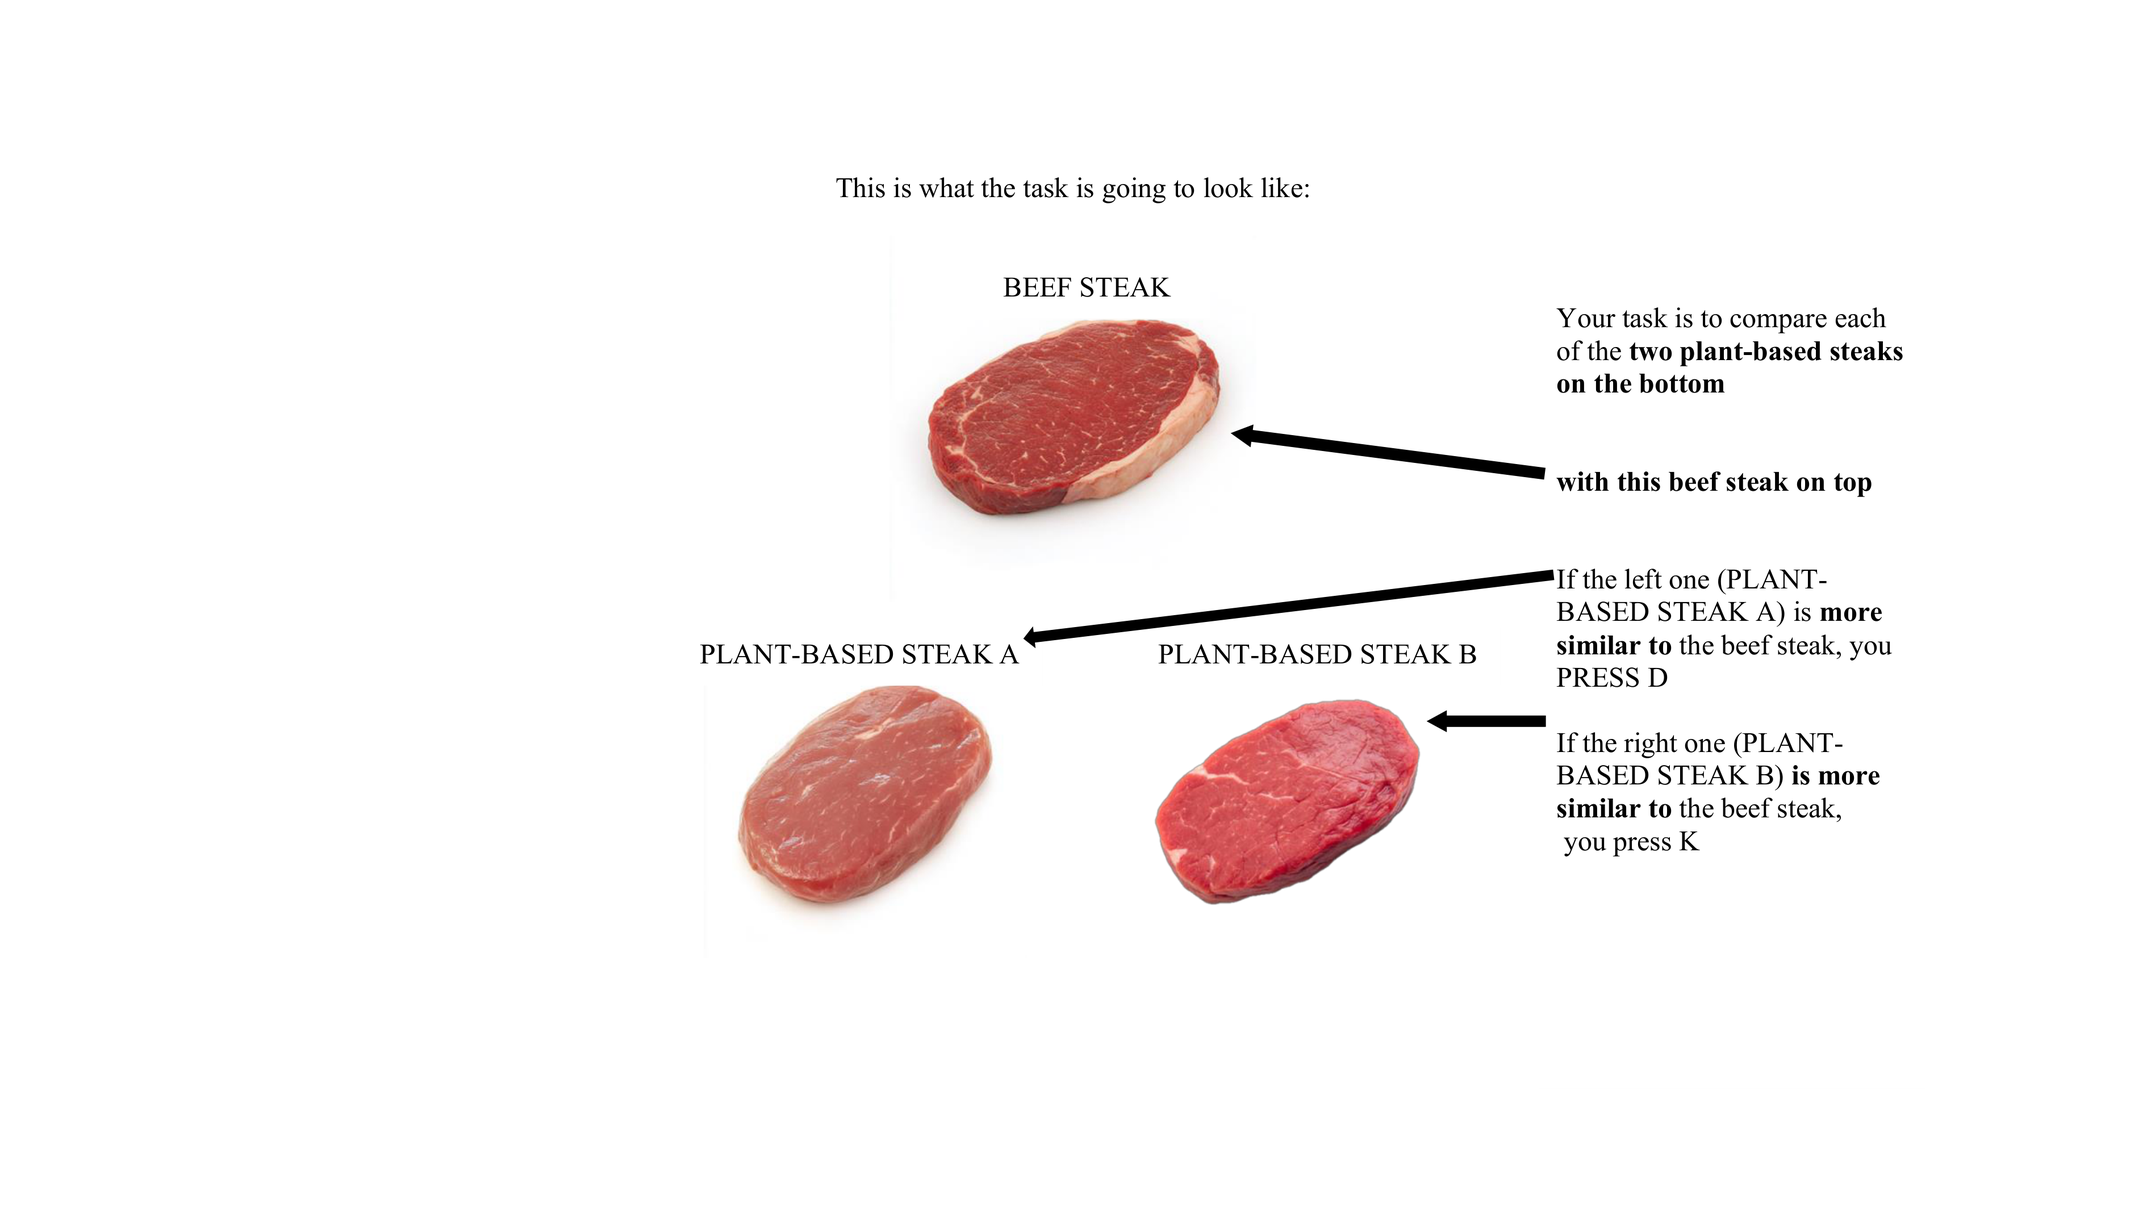
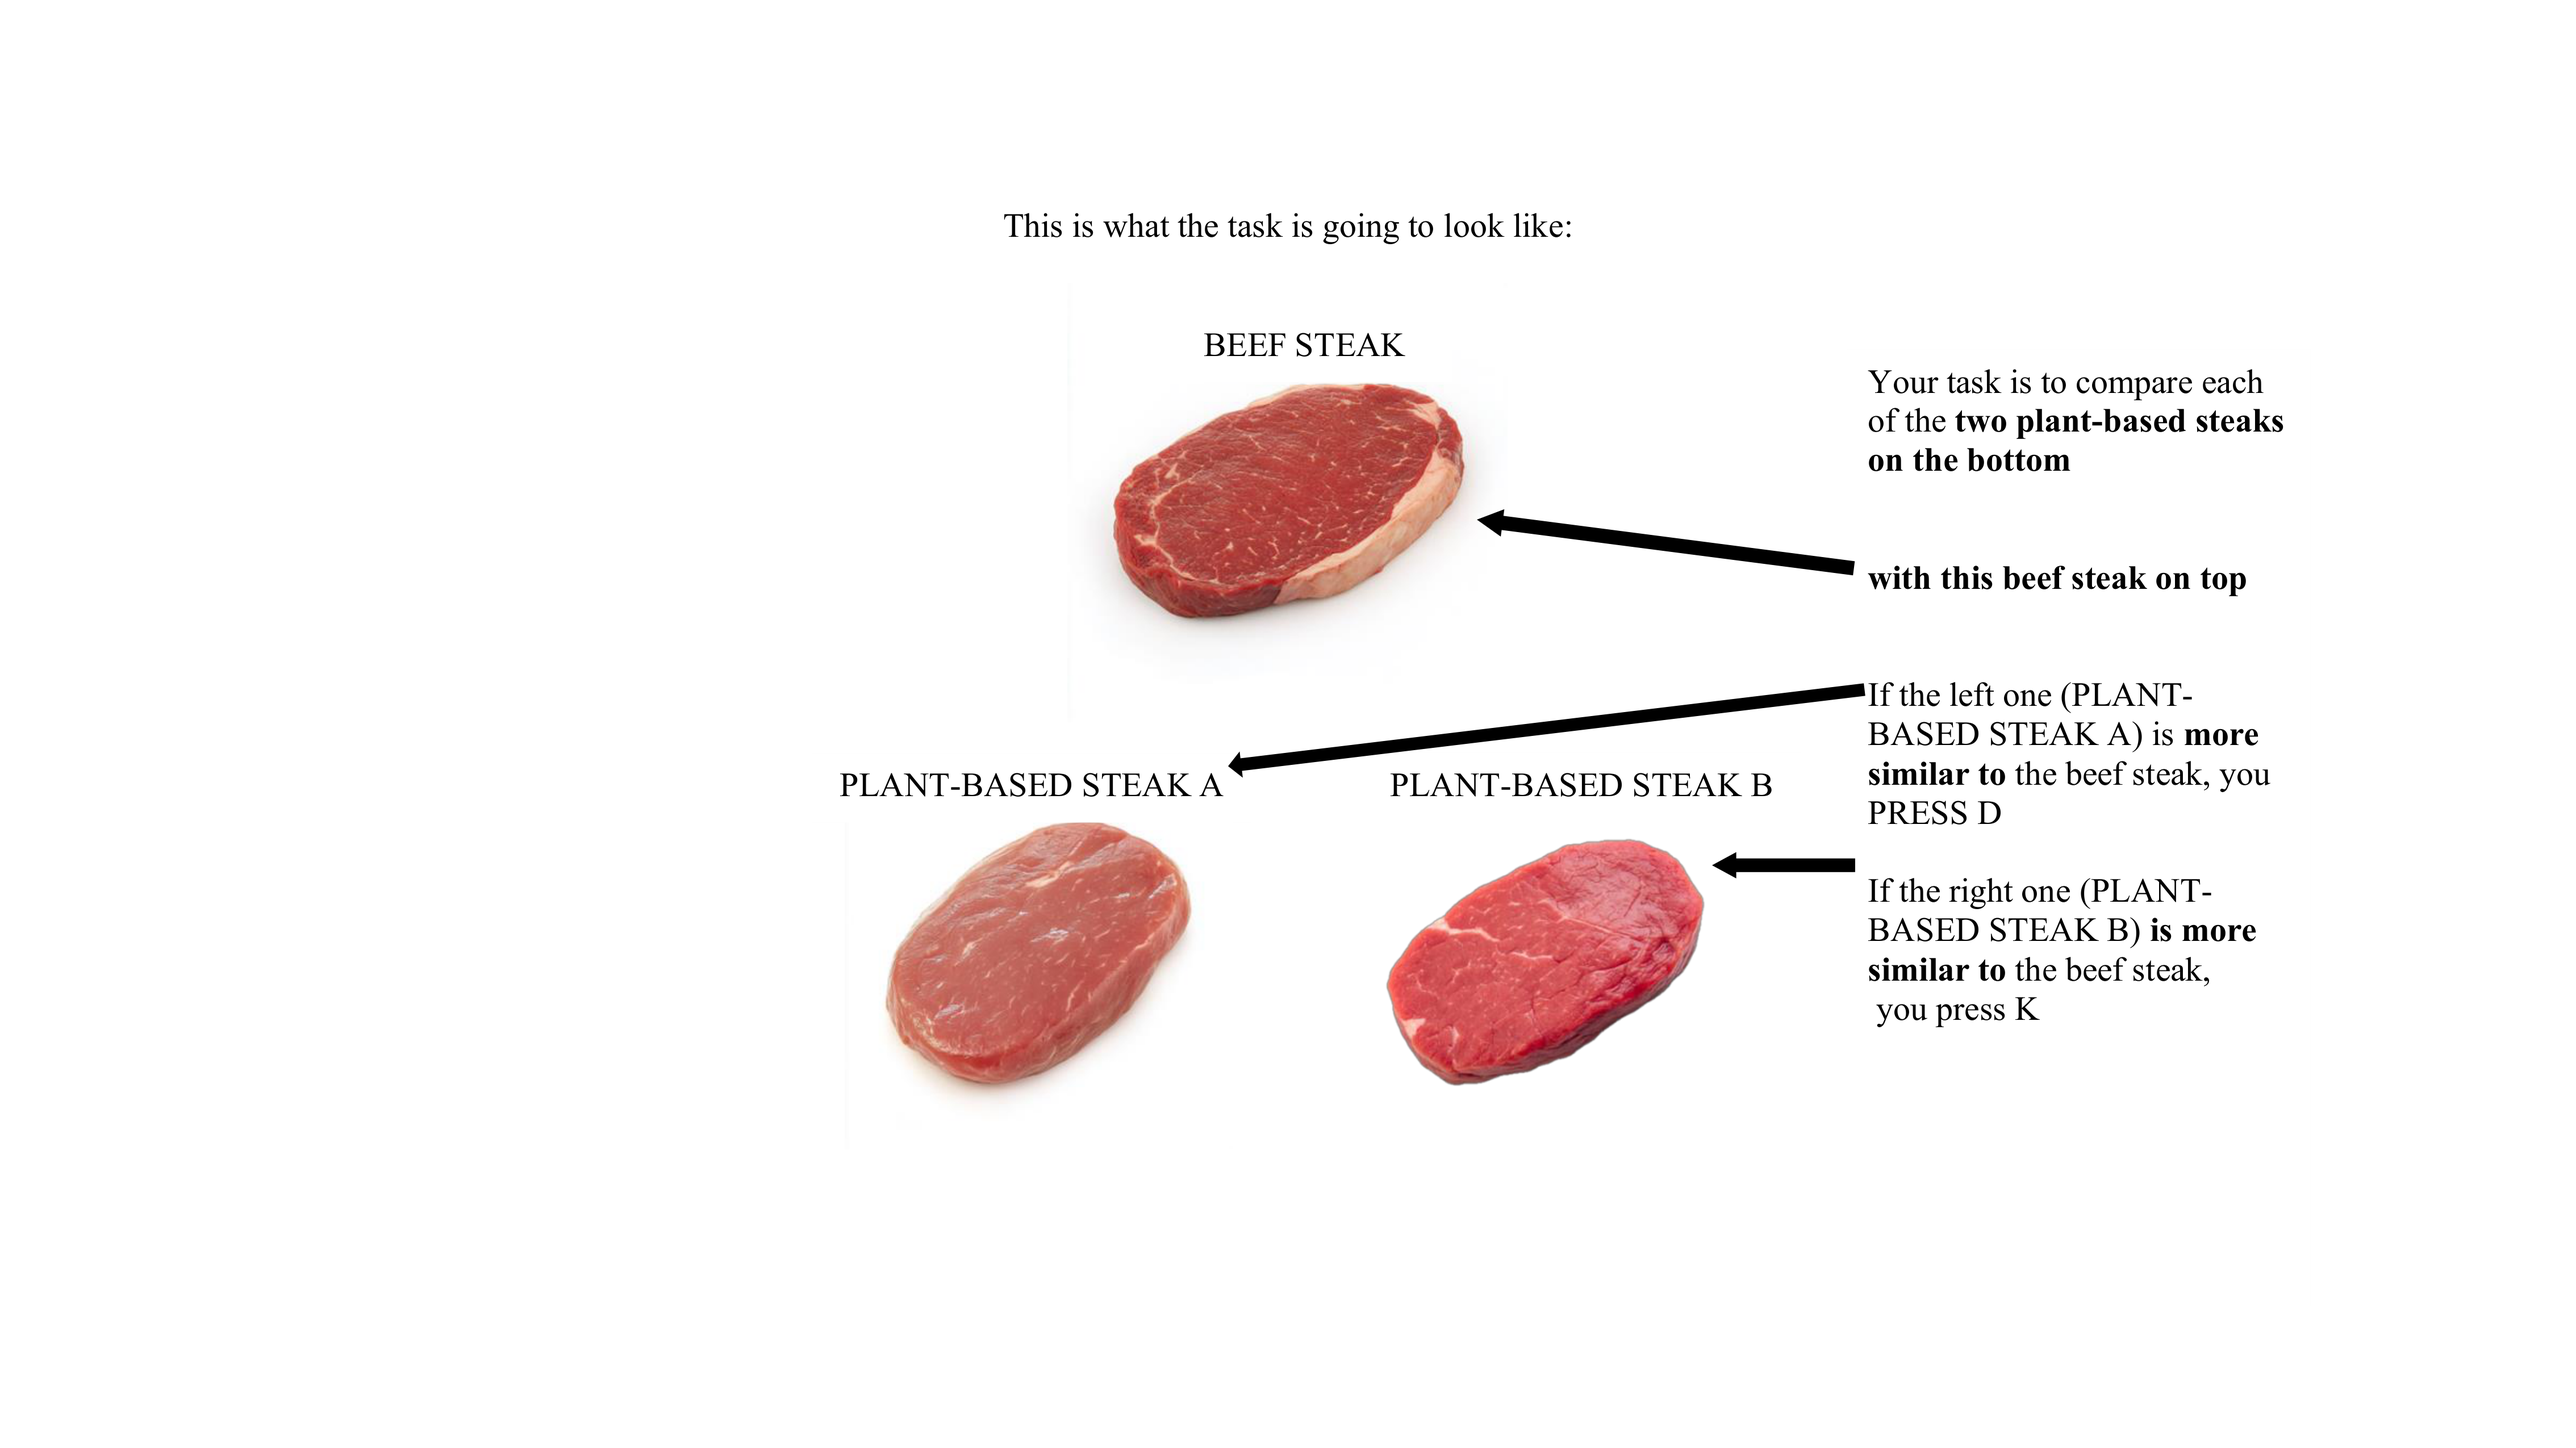
again, same

diff --git a/experiment/precompute/pdf_to_image.py b/experiment/precompute/pdf_to_image.py
@@ -27,4 +27,4 @@ def convert_pdf_to_images(pdf_path, output_format="png", dpi=300):
     doc.close()
 
 if __name__ == '__main__':
-    convert_pdf_to_images("instructions.pdf", output_format="png", dpi=300)
+    convert_pdf_to_images("instructions.pdf", output_format="png", dpi=360)
